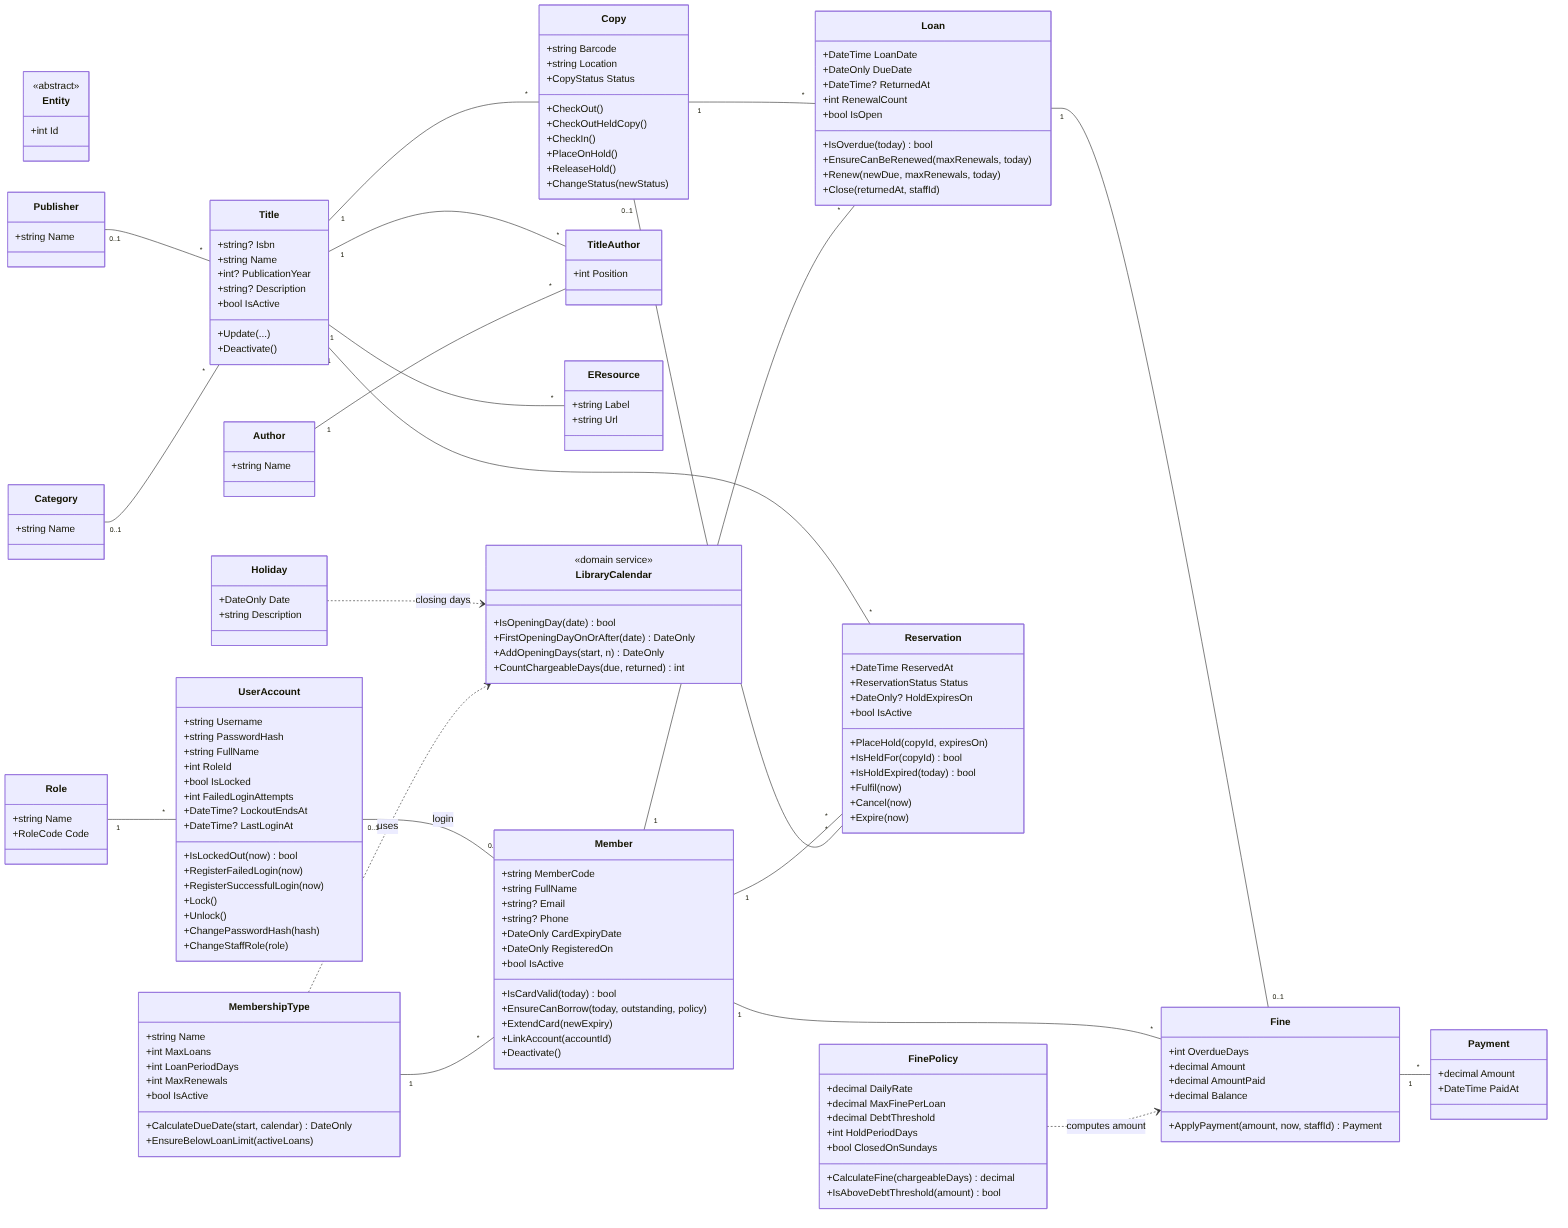
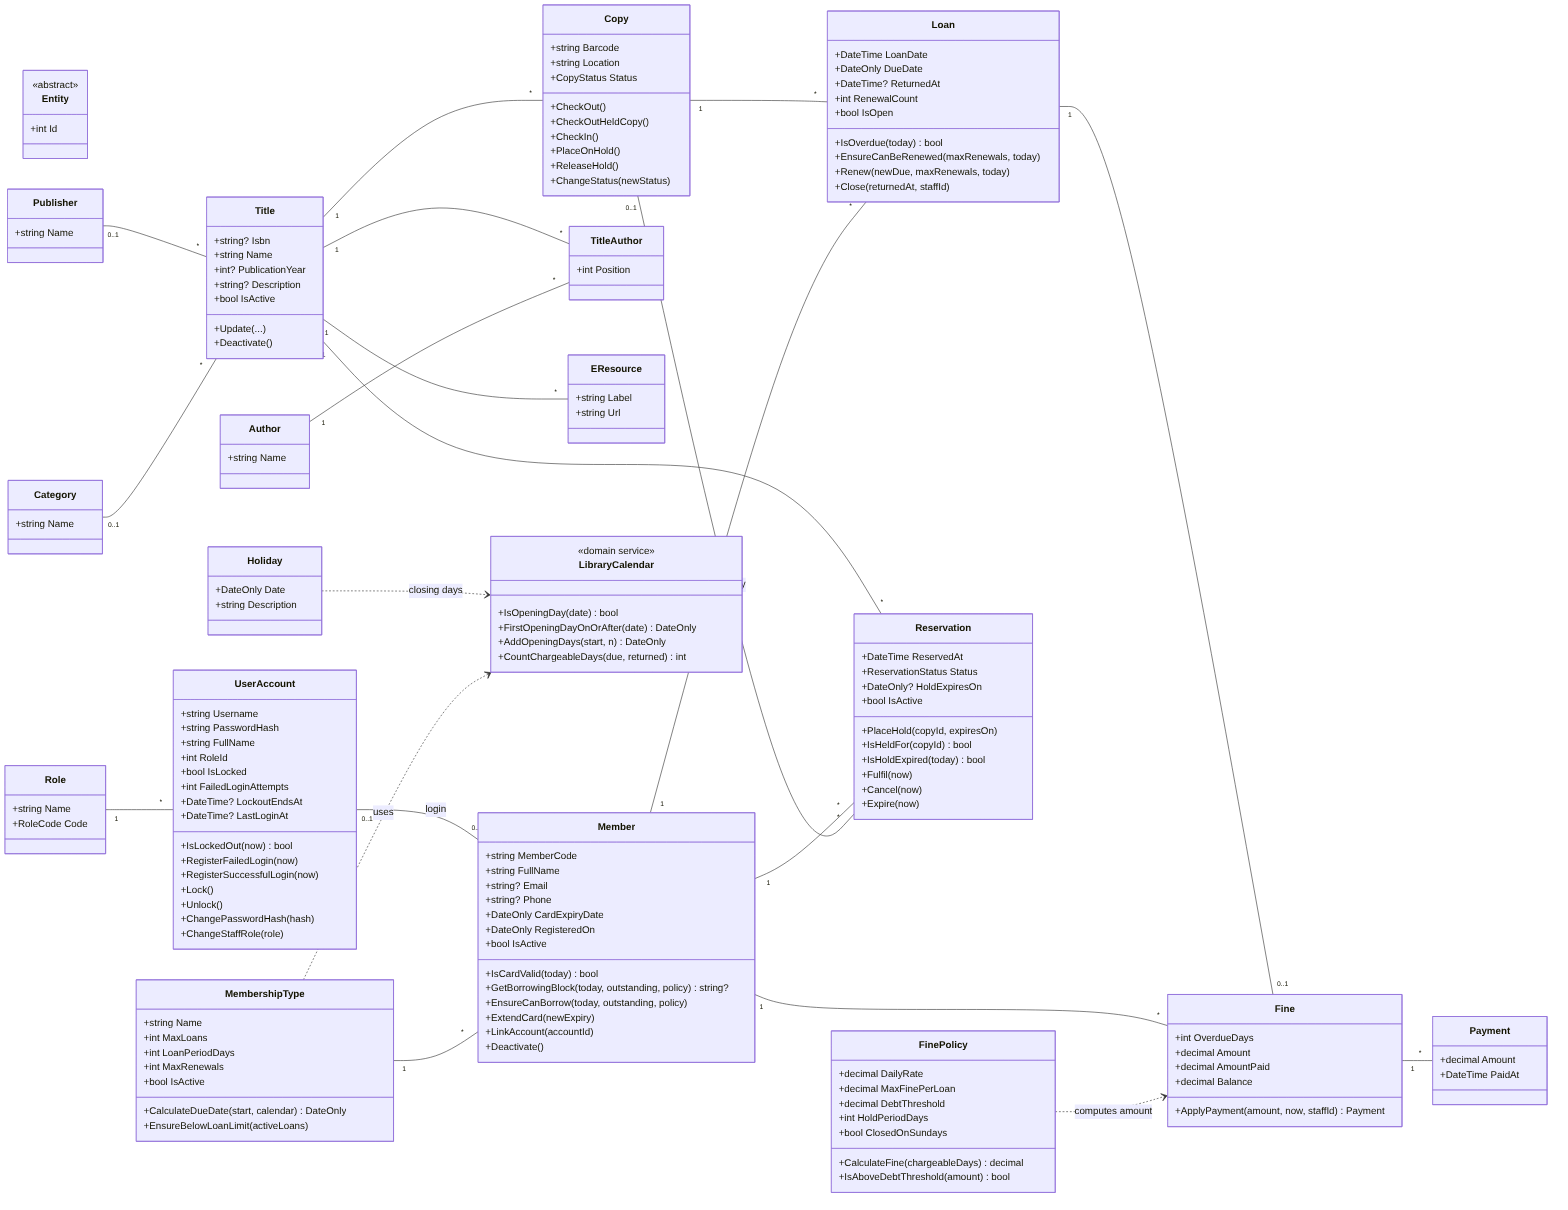
Update design document, README and run guide for the final version

diff --git a/docs/design/DESIGN.md b/docs/design/DESIGN.md
@@ -43,7 +43,7 @@ display the result or the error. No business rule and no query is written in a f
 
 | Concern | Decision |
 |---|---|
-| Authentication | `AuthService.Login` verifies PBKDF2-SHA256 hashes (100,000 iterations, 16-byte random salt; NFR-03). 5 consecutive failures lock the account for 5 minutes (NFR-05). |
+| Authentication | `AuthService.Login` verifies PBKDF2-SHA256 hashes (100,000 iterations, 16-byte random salt, 32-byte hash; NFR-03). User names are matched case-insensitively and a wrong user name or password gives the same message. 5 consecutive failures lock the account for 5 minutes (NFR-05). `PasswordPolicy`: 8–100 characters, at least one letter and one digit, not equal to the user name. |
 | Authorisation | Every public service method starts with `_session.Require(...)` (NFR-04). Member-facing methods additionally check that the member only touches his/her own data. |
 | Time | All services read the date from `IClock`, so tests can fix "today". |
 | Errors | `LibraryException` hierarchy: `ValidationException` (bad input), `BusinessRuleException` (BR violated, carries the rule id), `NotFoundException`, `AccessDeniedException`, `AuthenticationFailedException`, `DataAccessException` (wraps EF/SQL errors). The UI shows `LibraryException` messages as warnings; anything else is logged and shown as a generic error by a global handler — the application never crashes on bad input (NFR-06). |
@@ -65,9 +65,9 @@ entity that realises the many-to-many Title–Author association.
 | Package | Class | Key behaviour (operations that carry rules) |
 |---|---|---|
 | Users | `Role` | `Code` (Administrator, Librarian, Member) |
-| | `UserAccount` | `IsLockedOut(now)`, `RegisterFailedLogin(now)`, `RegisterSuccessfulLogin(now)`, `Lock()`, `Unlock()`, `ChangePasswordHash()`, `ChangeStaffRole()` |
-| | `MembershipType` | `CalculateDueDate(start, calendar)` (BR1), `EnsureBelowLoanLimit(activeLoans)` (BR1); `MaxRenewals` is used by `Loan.Renew` (BR7) |
-| | `Member` | `IsCardValid(today)`, `EnsureCanBorrow(today, outstandingFines, policy)` (BR2), `UpdateDetails(…)`, `ExtendCard(newExpiry)`, `LinkAccount(accountId)`, `Deactivate()` / `Reactivate()` |
+| | `UserAccount` | `IsLockedOut(now)`, `RegisterFailedLogin(now)`, `RegisterSuccessfulLogin(now)`, `Lock()`, `Unlock()`, `ChangePasswordHash()`, `ChangeFullName()`, `ChangeStaffRole()` |
+| | `MembershipType` | `Update(…)`, `CalculateDueDate(start, calendar)` (BR1), `EnsureBelowLoanLimit(activeLoans)` (BR1); `MaxRenewals` is used by `Loan.Renew` (BR7) |
+| | `Member` | `IsCardValid(today)`, `GetBorrowingBlock(today, outstandingFines, policy)` (the reason, or null) and `EnsureCanBorrow(…)` (BR2), `UpdateDetails(…)`, `ExtendCard(newExpiry)`, `LinkAccount(accountId)`, `Deactivate()` / `Reactivate()` |
 | Catalogue | `Title`, `Author`, `TitleAuthor`, `Publisher`, `Category` | `Title.Update(...)`, `Title.Deactivate()` |
 | | `EResource` | URL must be absolute http/https |
 | | `Copy` | `CheckOut()`, `CheckOutHeldCopy()`, `CheckIn()`, `PlaceOnHold()`, `ReleaseHold()`, `ChangeStatus()`, `ChangeLocation()` — guards legal status transitions |
@@ -106,13 +106,13 @@ parameters, so the same invariants are checked again when rows are loaded from t
 
 | Rule | Enforced in | Tested by |
 |---|---|---|
-| BR1 Loan limit & period | `MembershipType.EnsureBelowLoanLimit`, `MembershipType.CalculateDueDate`, called by `CirculationService.CheckOut` | `CheckoutTests`, `LibraryCalendarTests` |
-| BR2 Eligibility | `Member.EnsureCanBorrow` (card + debt threshold), `FineLedger.GetOutstanding` (unpaid fines + fines accrued to date on overdue loans); used by checkout, renew, reserve | `CheckoutTests`, `RenewalTests`, `ReservationTests` |
-| BR3 Overdue fine | `LibraryCalendar.CountChargeableDays` + `FinePolicy.CalculateFine`; `CirculationService.Return` records the `Fine` | `FineCalculationTests`, `ReturnTests` |
-| BR4 FIFO queue | `ReservationService.Place` (only if no copy Available; one active reservation per member per title); `HoldAllocator` serves the oldest `Waiting` reservation. DB: filtered unique index on active reservations | `ReservationTests`, `HoldTests` |
-| BR5 Hold expiry | `HoldAllocator.AssignCopy` (expiry = return date + 3 opening days), `ReservationService.ProcessHolds` | `HoldTests` |
-| BR6 Held copy protection | `CirculationService.CheckOut` — a copy `OnHold` can only be lent to the member whose reservation holds it | `CheckoutTests` |
-| BR7 Renewal | `Loan.EnsureCanBeRenewed` / `Loan.Renew` (open, not overdue, under the renewal limit) + `CirculationService.Renew` (no `Waiting` reservation for the title) | `RenewalTests` |
+| BR1 Loan limit & period | `MembershipType.EnsureBelowLoanLimit`, `MembershipType.CalculateDueDate`, called by `CirculationService.CheckOut` | `MemberCirculationFineTests`: `CheckoutAllowsLimitAndRejectsNextCopy`, `CheckoutMovesDueDatePastSundayAndHoliday` |
+| BR2 Eligibility | `Member.EnsureCanBorrow` / `GetBorrowingBlock` (card + debt threshold), `FineLedger.GetOutstanding` (unpaid fines + fines accrued to date on overdue loans); used by checkout, renew, reserve | `CheckoutUsesStrictDebtThreshold`, `ExpiryDateIsInclusive`, `AccruingFineCanBlockCheckout`, `RenewalRejectsIneligibleLoan`, `AMemberWhoCannotBorrowCannotReserve` |
+| BR3 Overdue fine | `LibraryCalendar.CountChargeableDays` + `FinePolicy.CalculateFine`; `CirculationService.Return` records the `Fine` | `ReturnCountsOpeningDaysAndAppliesCap`, `AccruingFineIsVisibleButPayableAfterReturn`, `PartialPaymentPaysOldestFineFirstAndUnblocksMember` |
+| BR4 FIFO queue | `ReservationService.Place` (only if no copy Available; one active reservation per member per title); `HoldAllocator` serves the oldest `Waiting` reservation. DB: filtered unique index on active reservations | `ReservationTests`: `MembersJoinTheQueueInOrderAndOnlyOnce`, `ATitleWithACopyOnTheShelfCannotBeReserved`, `ATitleWithOnlyLostCopiesCannotBeReserved` |
+| BR5 Hold expiry | `HoldAllocator.AssignCopy` (expiry = return date + 3 opening days), `ReservationService.ProcessHolds` / `ExpireHoldsAtStartup` | `AReturnedCopyIsHeldForTheFirstMemberForThreeOpeningDays`, `AnUncollectedHoldExpiresAndTheCopyGoesToTheNextMember`, `StartupExpiryReturnsTheCopyToTheShelfWhenNobodyElseWaits` |
+| BR6 Held copy protection | `CirculationService.CheckOut` — a copy `OnHold` can only be lent to the member whose reservation holds it | `ReturnAssignsFirstWaitingMemberAndProtectsTheirHold`, `TheHolderCollectsTheCopyAndTheReservationIsFulfilled` |
+| BR7 Renewal | `Loan.EnsureCanBeRenewed` / `Loan.Renew` (open, not overdue, under the renewal limit) + `CirculationService.Renew` (no `Waiting` reservation for the title). BR7 is checked before BR2, so an overdue loan is refused as overdue | `MemberCanRenewOwnLoanOnceFromExistingDueDate`, `RenewalRejectsIneligibleLoan` (5 cases) |
 
 **Clarifications made during design** (to be confirmed in the librarian interview,
 Appendix A of the proposal):
@@ -137,9 +137,9 @@ Appendix A of the proposal):
 | `AccountService` | UC02 | `GetAccounts`, `CreateStaffAccount`, `UpdateStaffAccount`, `SetLocked`, `ResetPassword` | Admin |
 | `SettingsService` | UC03 | `GetMembershipTypes`, `SaveMembershipType`, `GetFinePolicy`, `UpdateFinePolicy`, `GetHolidays`, `AddHoliday`, `RemoveHoliday`, `Backup`, `Restore` | Admin (reads: Librarian too) |
 | `CatalogueService` | UC04, UC05 | `Search`, `GetTitleDetails`, `SaveTitle`, `SetTitleActive`, `AddCopy`, `ChangeCopyLocation`, `ChangeCopyStatus`, `AddEResource`, `RemoveEResource`, `GetEResourceUrl`, `GetCategories`, `GetPublishers` | search: all; edit: Librarian |
-| `MemberService` | UC06 | `Search`, `GetMember`, `Register`, `Update`, `ExtendCard`, `SetActive`, `ResetPassword`, `GetMyProfile` | Librarian (Member: own profile) |
-| `CirculationService` | UC07–UC09 | `GetMemberSummary`, `CheckOut`, `Return`, `Renew`, `GetOpenLoans`, `GetMyLoans` | Librarian (Member: renew/view own) |
-| `ReservationService` | UC10, UC11 | `Place`, `Cancel`, `GetMyReservations`, `ProcessHolds`, `GetActiveHolds`, `ExpireHoldsAtStartup` (system) | Member (place/cancel); Librarian (holds, cancel) |
+| `MemberService` | UC06 | `Search`, `GetMembershipTypes`, `GetMember`, `Register`, `Update`, `ExtendCard`, `SetActive`, `ResetPassword`, `GetMyProfile` | Librarian (Member: own profile) |
+| `CirculationService` | UC07–UC09 | `GetMemberSummary`, `CheckOut`, `GetReturnPreview` + `Return` (return in two steps: find the loan, then confirm), `Renew`, `GetOpenLoans`, `GetMyLoans` | Librarian (Member: renew/view own) |
+| `ReservationService` | UC10, UC11 | `Place`, `Cancel`, `GetMyReservations`, `GetActiveHolds`, `ProcessHolds` and `ExpireHoldsAtStartup` (system); both return a `HoldProcessingResultDto` (holds expired, copies reassigned, copies released) | Member (place/cancel); Librarian (holds, cancel) |
 | `FineService` | UC12 | `GetMemberFines`, `GetMyFines`, `RecordPayment` | Librarian (Member: own) |
 | `ReportService` | UC13 | `GetAvailableReports`, `Run` | Admin, Librarian |
 
@@ -191,9 +191,10 @@ it. On narrow windows the sidebar collapses to icons. Figure D-4 (`navigation.pn
 
 | Sidebar group | Screen | Use case | Admin | Librarian | Member |
 |---|---|---|:-:|:-:|:-:|
-| Library | Catalogue search (+ Title editor dialog) | UC04, UC05, UC10 | view | ✓ edit | ✓ reserve / open link |
+| Library | Overview (dashboard: totals, overdue items, titles by category, most-reserved titles) | — | ✓ | ✓ | ✓ |
+| | Catalogue search (+ Title editor dialog; list or book-cover view) | UC04, UC05, UC10 | view | ✓ edit | ✓ reserve / open link |
 | Circulation | Check out | UC07 | | ✓ | |
-| | Return | UC08 | | ✓ | |
+| | Return (Find loan → Confirm return) | UC08 | | ✓ | |
 | | Loans & renewals | UC09 | | ✓ | |
 | | Holds | UC11 | | ✓ | |
 | | Fines & payments | UC12 | | ✓ | |
@@ -202,7 +203,7 @@ it. On narrow windows the sidebar collapses to icons. Figure D-4 (`navigation.pn
 | Reports | Reports (+ export to Excel/CSV) | UC13 | ✓ | ✓ | |
 | Administration | User accounts | UC02 | ✓ | | |
 | | Settings: membership types, fine policy, holidays, backup/restore | UC03, NFR-08 | ✓ | | |
-| Sidebar footer | Change password, Log out | UC01 | ✓ | ✓ | ✓ |
+| Sidebar footer | Light / dark theme, Change password, Log out | UC01 | ✓ | ✓ | ✓ |
 
 ### 6.2 UI conventions
 
@@ -230,9 +231,22 @@ it. On narrow windows the sidebar collapses to icons. Figure D-4 (`navigation.pn
 
 ## 7. Testing approach
 
-* **Unit tests (NUnit)** on the business layer with `InMemoryUnitOfWork` and `FixedClock` —
-  61 test cases (48 test methods) covering BR1–BR7, role checks (NFR-04), login lock-out (NFR-05),
-  password hashing (NFR-03), input validation (NFR-06) and the integrity of the sample data.
+* **Unit tests (NUnit)** on the business layer with an in-memory unit of work (`MemoryLibrary`)
+  and a fixed clock — **110 test cases** in `tests/ELibrary.Tests`:
+
+  | Area | Test class | Cases |
+  |---|---|---:|
+  | Members, check out, return, renewal, fines (BR1–BR3, BR6, BR7) | `Circulation/MemberCirculationFineTests` | 30 |
+  | Reservations and holds (BR4–BR6) | `Reservations/ReservationTests` | 12 |
+  | Log-in, lock-out, accounts, roles (UC01, UC02, NFR-04, NFR-05) | `Accounts/AuthAndAccountTests` | 20 |
+  | Membership types, fine policy, holidays, backup (UC03, NFR-08) | `Accounts/SettingsTests` | 13 |
+  | Password hashing (NFR-03) | `Security/Pbkdf2PasswordHasherTests` | 17 |
+  | Password policy | `Security/PasswordPolicyTests` | 18 |
+
+  Catalogue search, title management and reports are covered by the manual acceptance tests.
+* **Regression tests for defects found in testing** — e.g. renewing an overdue loan with a fine
+  above the limit must report BR7 (`RenewalRejectsIneligibleLoan`, case "overdue with a fine above
+  the limit"); the test fails on the code before the fix.
 * **Sample data** is produced by the services themselves (`SampleDataSeeder`), which exercises the
   whole stack against SQL Server on the first start.
 * **Manual acceptance tests** per use case (test-case table in the report: ID, purpose,

diff --git a/RUN_GUIDE.md b/RUN_GUIDE.md
@@ -58,11 +58,27 @@ dotnet run --project src/ELibrary.WinForms -c Release
 Log in with one of the sample accounts (`admin / Admin@123`, `librarian1 / Librarian@123`,
 `M0001 / Member@123` …).
 
+### 4.1 Finding your way around
+
+The sidebar on the left shows only the screens of your role. Keyboard shortcuts:
+
+| Key | Librarian | Member |
+|---|---|---|
+| Ctrl+F | Catalogue | Catalogue |
+| F2 / F3 / F4 | Check out / Return / Loans & renewals | My loans / My reservations / My fines |
+| F5 / F6 / F7 | Holds / Fines & payments / Members | |
+| F8 | Reports | |
+| Ctrl+W | Close the current screen | Close the current screen |
+
+The theme switch (light / dark), *Change password* and *Log out* are at the bottom of the sidebar.
+The theme is remembered per Windows user in `%LOCALAPPDATA%\ELibrary\theme.txt`.
+
 ## 5. Run the tests
 
 **Visual Studio:** *Test → Run All Tests*. **Command line:** `dotnet test`
 
 The tests do not need SQL Server: they use an in-memory unit of work and a fixed clock.
+Expected result: **110 passed, 0 failed**.
 
 ## 6. Sample data — what to try
 
@@ -76,41 +92,54 @@ the business rules. Dates are relative to the day the database was created.
 | Check out to **M0010** | librarian1 | Refused (BR2): unpaid fine above 50,000 VND |
 | Fines of **M0009** | librarian1 | Partly paid fine; record the rest of the payment |
 | Check out a copy to **M0001** twice more | librarian1 | Third item works, fourth is refused: "Loan limit reached (3/3)" (BR1) |
-| Return **LIB0041** (Refactoring) | librarian1 | Copy goes on hold for M0003, the first in the queue (BR4, BR5) |
+| Return **LIB0041** (Refactoring): *Find loan* → *Confirm return* | librarian1 | The loan is shown first; after confirming, the copy goes on hold for M0003, the first in the queue (BR4, BR5) |
 | Check out **LIB0081** to anyone but M0017 | librarian1 | Refused (BR6): copy is on hold for M0017 |
 | Open **Holds** | librarian1 | The expired hold of M0019 has passed to M0020 (UC11) |
 | Renew a loan of **M0002** | M0002 | Refused (BR7): members are waiting for the title |
+| Renew an overdue loan | librarian1 (Loans → Overdue only) | Refused (BR7): the loan is overdue |
 | Reserve "Clean Code" | M0003 | Refused (BR4): a copy is available |
 | Reports → Most-borrowed titles → Export | admin | Excel file with the ranking |
+| Open **Overview** | any account | Copy totals add up (available + on loan + on hold …), overdue list, charts by category |
 
 Copy barcodes follow the pattern `LIB` + title number (3 digits) + copy number, e.g. `LIB0011` is the
 first copy of title 1 (Clean Code).
 
 ## 7. Generate the SQL script of the database
 
+The repository already contains `docs/database/create_database.sql`. To regenerate it after a
+change to the mappings:
+
 ```
-cd src/ELibrary.WinForms/bin/Release/net8.0-windows
-ELibrary.exe --export-schema ..\..\..\..\..\docs\database\create_database.sql
+dotnet run --project src/ELibrary.WinForms -- --export-schema docs/database/create_database.sql
 ```
 
 The script is generated by EF Core from the mappings, so it always matches the code.
 
 ## 8. Backup and restore (NFR-08)
 
-Log in as `admin` → *Administration → Settings, holidays and backup → Backup and restore*.
+Log in as `admin` → *Administration → Settings* → tab *Backup & restore*.
 The backup path is a path on the computer that runs SQL Server; the folder must exist and the SQL
 Server service account must be allowed to write to it (e.g. create `C:\ELibraryBackups` and give
 *Everyone* write access for a lab PC). After a restore, restart the application.
 
 ## 9. Starting again with fresh sample data
 
-Delete the database (SSMS: right-click `ELibraryDb` → *Delete*, tick *Close existing connections*)
-and start the application again.
+Close the application, delete the database and start the application again. The sample data
+is generated again relative to today's date.
+
+* **SSMS:** right-click `ELibraryDb` → *Delete*, tick *Close existing connections*.
+* **PowerShell** (SQL Server Express, Windows authentication):
+
+```powershell
+sqlcmd -S .\SQLEXPRESS -E -Q "ALTER DATABASE ELibraryDb SET SINGLE_USER WITH ROLLBACK IMMEDIATE; DROP DATABASE ELibraryDb"
+```
 
 ## 10. Notes for developers
 
 * All windows are built in code (no `.Designer.cs` files). If Visual Studio opens a form in the
   designer, use **View Code (F7)** instead.
+* Colours, spacing and fonts are defined once in `UI/Theme.cs`; every screen derives from
+  `ScreenBase` and every list is styled by `GridStyle`.
 * Business rules live only in `ELibrary.Domain` and `ELibrary.Business`; screens just call services.
 * Errors are logged to `%LOCALAPPDATA%\ELibrary\logs`.
 
@@ -122,3 +151,5 @@ and start the application again.
 | "The database could not be prepared" | The Windows user has no permission to create databases — use an administrator account once, or a SQL login with `dbcreator`. |
 | Backup fails with "Operating system error 5" | The SQL Server service cannot write to the folder — see section 8. |
 | Unexpected error message | Details are written to `%LOCALAPPDATA%\ELibrary\logs\error-YYYYMMDD.log`. |
+| Build error "Duplicate 'AssemblyVersion' attribute" | A stray copy of a project folder inside itself (e.g. `src\ELibrary.DataAccess\ELibrary.DataAccess`). Delete that inner folder and build again. |
+| Sample data looks out of date | The dates are relative to the day the database was created — recreate it (section 9). |

diff --git a/README.md b/README.md
@@ -7,6 +7,15 @@ A Windows desktop application that digitises the circulation of a small library:
 e-resource links, members, check-out, return, renewal, a FIFO reservation queue with hold expiry,
 overdue fines with a cap and holiday exclusions, payments and reports.
 
+Main features of the final version:
+
+* Role-based sidebar (Administrator, Librarian, Member) with keyboard shortcuts and a light / dark theme
+* Overview dashboard: totals, overdue items, titles by category, most-reserved titles
+* Catalogue with list and book-cover views, copies and e-resource links
+* Check out, two-step return (find the loan, then confirm), renewal, FIFO reservations and holds
+* Fines that accrue per opening day (Sundays and holidays excluded, capped), partial payments
+* Reports with export to Excel and CSV; database backup and restore
+
 ## Team
 
 | Member | Student ID | Role and main modules |
@@ -35,11 +44,12 @@ overdue fines with a cap and holiday exclusions, payments and reports.
   ELibrary.Business     services (one per use-case group), repository interfaces, DTOs, reports
   ELibrary.DataAccess   EF Core DbContext, mappings, repositories, sample-data seeder, backup
   ELibrary.WinForms     login, main window, screens, dialogs, Excel export
+                        UI/ = theme, sidebar, grid style, themed controls, toasts
 /tests
   ELibrary.Tests        NUnit tests with an in-memory unit of work and a fixed clock
 /docs
   design/               DESIGN.md + UML, ERD and sequence diagrams (Mermaid source + PNG)
-  database/             generated SQL script (see RUN_GUIDE.md)
+  database/             create_database.sql, generated from the EF Core mappings
 RUN_GUIDE.md            how to install, configure, run and test
 ```
 
@@ -66,8 +76,10 @@ The full procedure, troubleshooting and the test instructions are in [RUN_GUIDE.
 dotnet test
 ```
 
-The tests cover BR1–BR7, role checks (NFR-04), login lock-out (NFR-05), password hashing (NFR-03)
-and input validation (NFR-06).
+110 test cases (NUnit), no SQL Server needed. They cover BR1–BR7, role checks (NFR-04), login
+lock-out (NFR-05), password hashing and password policy (NFR-03), settings and holidays, and input
+validation (NFR-06). Catalogue, reports and the user interface are checked with the manual
+acceptance tests in [RUN_GUIDE.md](RUN_GUIDE.md#6-sample-data--what-to-try).
 
 ## Status
 
@@ -80,4 +92,5 @@ and input validation (NFR-06).
 | M5 Reservations | UC10, UC11 | Implemented |
 | M6 Fines | UC12 | Implemented |
 | M7 Reports | UC13 (+ Excel/CSV export) | Implemented |
+| Extra (beyond the proposal) | Overview dashboard, book-cover view, light/dark theme | Implemented |
 | Stretch goals | Barcode/QR scanning, recommendations | Not started (a USB barcode scanner works as a keyboard on the Check out and Return screens) |
